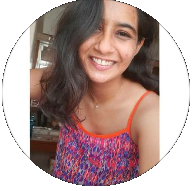
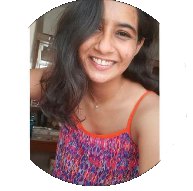
Added images

diff --git a/index.html b/index.html
@@ -55,7 +55,7 @@
         /></a>
       </div>
       <div style="display: flex; justify-content: center">
-        <img style="max-width: 10vw" src="images/cake.gif" />
+        <img style="max-width: 35vh" src="images/cake.gif" />
       </div>
       <h3>Some special wishes...</h3>
       <span>Click on each row to expand the message</span>
@@ -119,7 +119,7 @@
                 class="card-title activator grey-text text-darken-4"
                 style="padding-left: 10px"
               >
-                HARSHITA
+                HARSHITHA
               </h5>
             </div>
           </div>
@@ -201,7 +201,7 @@
               <img
                 class="responsive-img circle"
                 style="max-width: 10vw"
-                src="images/dp/aashma.png"
+                src="images/dp/aashma.jpg"
               />
               <h5
                 class="card-title activator grey-text text-darken-4"
@@ -385,15 +385,25 @@
         </li>
         <li>
           <div class="collapsible-header">
-            <i class="material-icons blue-text" style="font-size: 50px"
-              >title</i
+            <div
+              style="
+                display: flex;
+                justify-content: center;
+                align-items: center;
+              "
             >
-            <h5
-              class="card-title activator grey-text text-darken-4"
-              style="padding-left: 10px"
-            >
-              THEA
-            </h5>
+              <img
+                class="responsive-img circle"
+                style="max-width: 10vw"
+                src="images/dp/thea.jpg"
+              />
+              <h5
+                class="card-title activator grey-text text-darken-4"
+                style="padding-left: 10px"
+              >
+                THEA
+              </h5>
+            </div>
           </div>
           <div class="collapsible-body">
             <div class="row">
@@ -666,11 +676,17 @@
         shigh = sh_min;
       }
       var isPlaying = false;
+      var element = document.getElementById("music");
+      var audio = document.getElementById("myAudio");
+      var icon = document.getElementById("musicicon");
+      element.classList.add("blue");
+      element.classList.remove("red");
+      element.classList.remove("pulse");
+      icon.innerHTML = "pause";
+      audio.play();
+      isPlaying = true;
 
       function toggleMusic() {
-        var element = document.getElementById("music");
-        var audio = document.getElementById("myAudio");
-        var icon = document.getElementById("musicicon");
         if (isPlaying) {
           audio.pause();
           element.classList.remove("blue");
